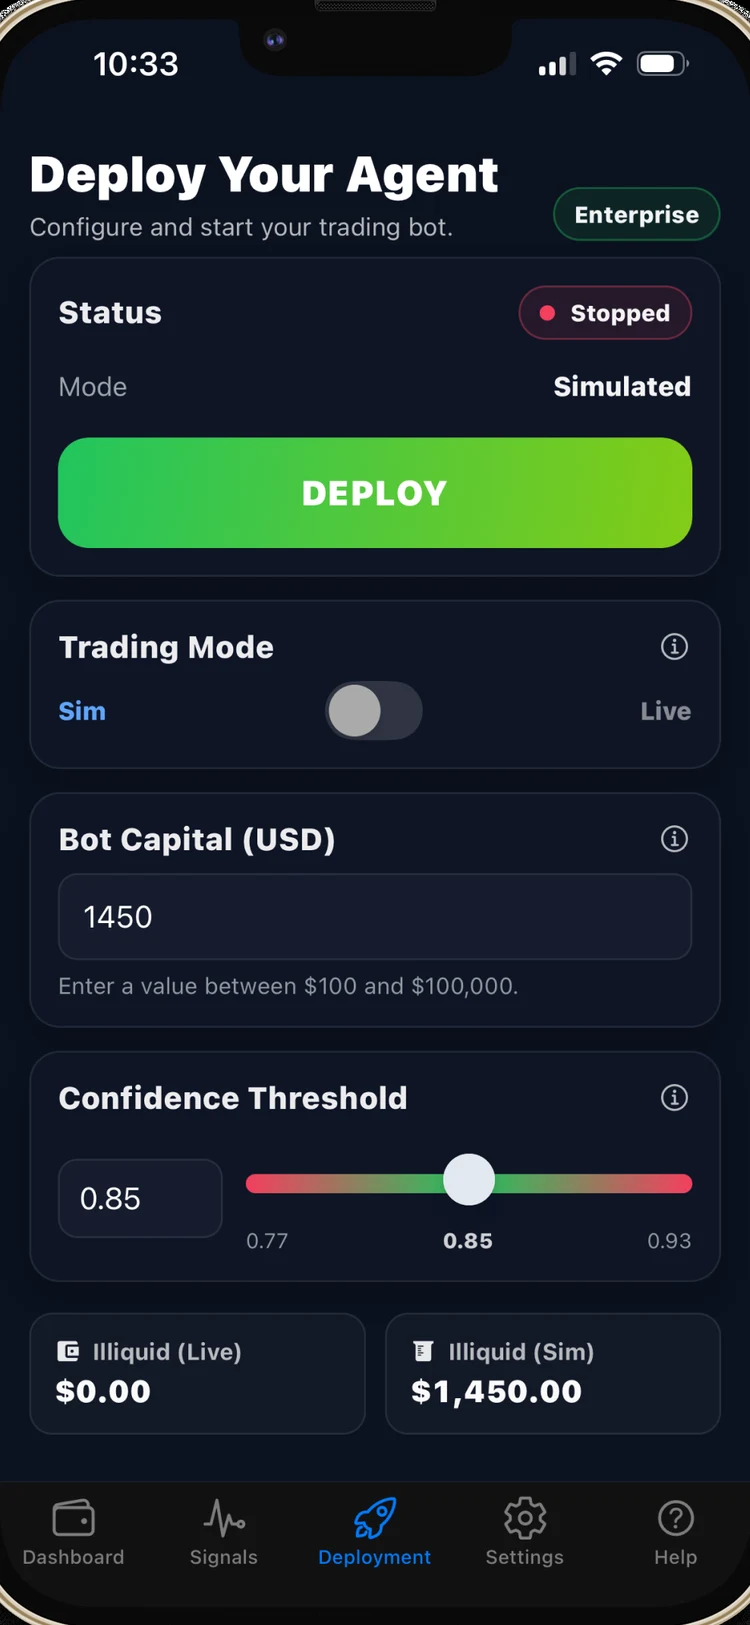
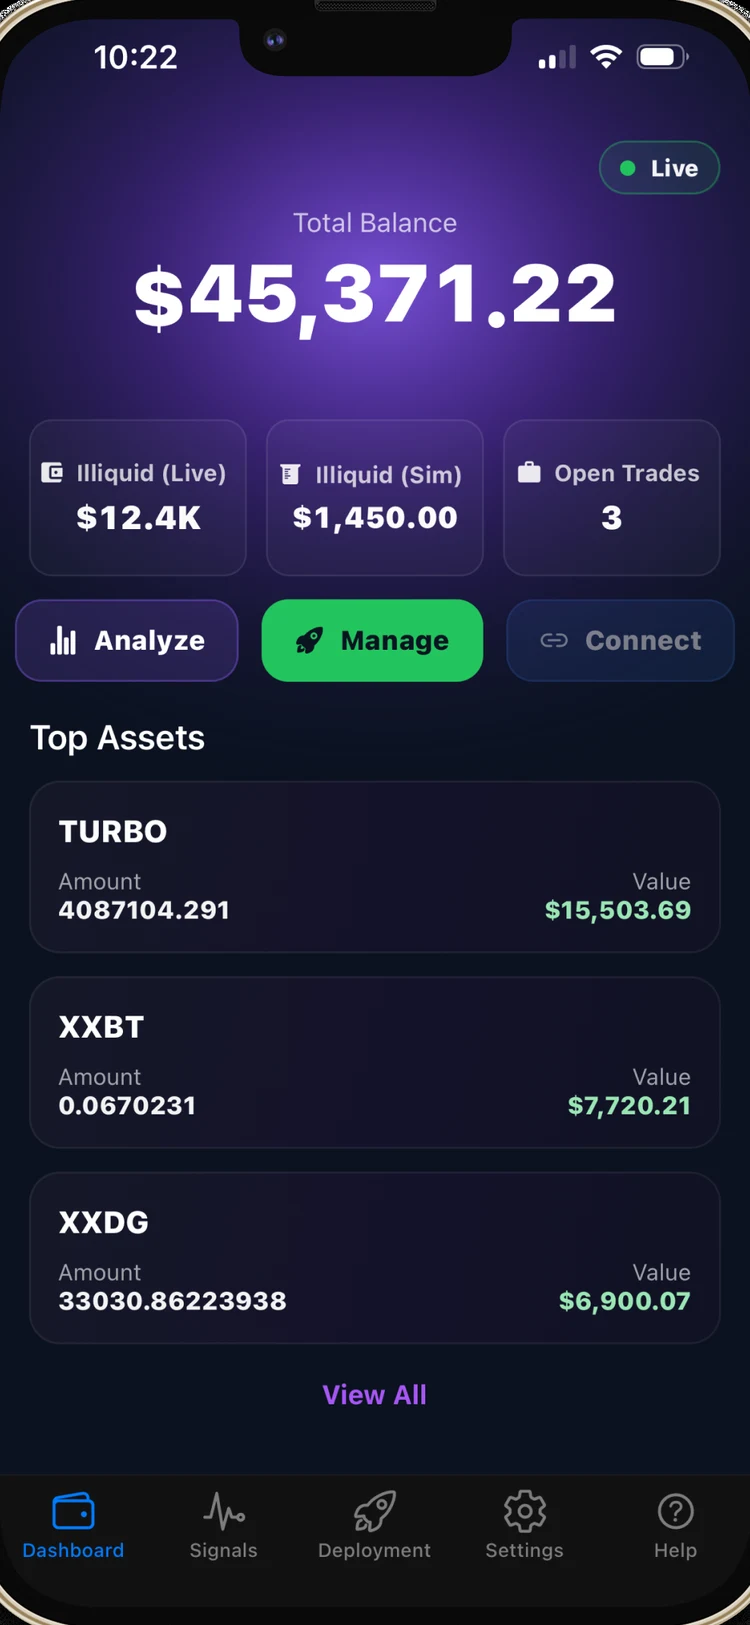
v2.5: wording round (hero, Capgemini, family) + BeNow dashboard screen
Hero drops 'an excuse to learn something I didn't know' for 'with more
on the way'. Capgemini card drops the cohort (not significant at a 400k
company): accepted the full time offer, excited to get started. Family
line is Garret's own wording. LAUNCH card keeps his hand-edit (verified
grammatically sound). BeNow screen swapped to the dashboard per his
reference, extracted from website4.png at the same 750x1625 invariant.
Voice deck and memory updated with all rejected phrasings.

diff --git a/index.html b/index.html
@@ -81,8 +81,7 @@
           <p class="lede">
             I&rsquo;m a software engineer at Capgemini in the Cloud &amp; Custom
             Applications practice. Outside of work I&rsquo;m building BerryBox,
-            my app company: four iOS apps so far, each one an excuse to learn
-            something I didn&rsquo;t know.
+            my app company: four iOS apps so far, with more on the way.
           </p>
           <div class="hero__actions">
             <a class="btn btn--primary" href="mailto:keyhanigarret@gmail.com">Email me</a>
@@ -124,9 +123,9 @@
                 <span class="chip chip--live">Current</span>
               </div>
               <p>
-                I interned in 2025, took the return offer, and started full time in
-                Chicago this year with a cohort of about forty. The work is
-                enterprise AI systems, and it&rsquo;s just getting going.
+                I interned in 2025, accepted the full time offer, and joined the
+                Chicago office this year. The work is enterprise AI systems, and
+                I&rsquo;m excited to get started.
               </p>
             </article>
           </div>
@@ -163,8 +162,7 @@
                 early-career program: my summer was the HP engagement above, plus a
                 case study with the other interns on AI-driven customer satisfaction
                 for a food delivery client. I learned what consulting actually looks
-                like from the inside, presented to real stakeholders, and left with a
-                return offer.
+                like from the inside, worked with real engineering teams, and presented to real clients.
               </p>
             </article>
           </div>
@@ -236,7 +234,7 @@
                   </p>
                 </div>
                 <div class="panel__visual">
-                  <div class="phone"><img src="assets/img/benow-ui.webp" alt="The BeNow deployment screen where you configure and start your trading bot" width="750" height="1625" loading="lazy"></div>
+                  <div class="phone"><img src="assets/img/benow-ui.webp" alt="The BeNow dashboard showing a live total balance and top assets" width="750" height="1625" loading="lazy"></div>
                 </div>
               </section>
 
@@ -401,8 +399,8 @@
           <div class="about-row__copy">
             <h3>Family first.</h3>
             <p>
-              I&rsquo;m an only child, so it&rsquo;s always been the three of us.
-              They&rsquo;re my two favorite people.
+              I&rsquo;m an only child, so it&rsquo;s just the three of us.
+              I&rsquo;m beyond grateful to have them in my life.
             </p>
           </div>
         </div>

diff --git a/docs/06-VOICE.md b/docs/06-VOICE.md
@@ -18,9 +18,10 @@ tone. If copy on the page differs from this deck, one of them is wrong.
    early ("the portfolio is young"). The mix is the voice.
 8. Casual, never cute or dramatic. Rejected on those grounds: "my little app
    company", "family is everything to me", "the reason I build anything at
-   all", "I'm the new person in the practice". When the copy is about Garret
-   inside a group, write the group in (the ~40-person cohort). Basketball is
-   real but not a headline piece of his identity; adaptability is.
+   all", "I'm the new person in the practice", "an excuse to learn something I
+   didn't know". Do not mention the intern cohort either; at a 400k-person
+   company it reads as filler. Basketball is real but not a headline piece of
+   his identity; adaptability is.
 
 ## Nav
 
@@ -33,9 +34,10 @@ contact heading; founder flagged three uses as redundant.)
 - H1: `Hi, I'm Garret.`
 - Lede: `I'm a software engineer at Capgemini in the Cloud & Custom Applications
   practice. Outside of work I'm building BerryBox, my app company: four iOS apps
-  so far, each one an excuse to learn something I didn't know.`
-  (Never "my little app company" and never "most nights and weekends". BerryBox
-  is NOT bolded. Always "practice", never "team".)
+  so far, with more on the way.`
+  (Never "my little app company", "most nights and weekends", or "an excuse to
+  learn something I didn't know". BerryBox is NOT bolded. Always "practice",
+  never "team".)
 - Fact line (small): `Chicago, IL[, 9:41 am local] · Hamilton College '26 ·
   computer science and mathematics` (the local time is a JS enhancement,
   Chicago timezone; absent without JS)
@@ -60,12 +62,14 @@ HP's location is **Spring, TX**.
 **Capgemini, full time** (label: `Software engineer · Cloud & Custom
 Applications practice · 2026 to present · Chicago, IL`)
 
-> I interned in 2025, took the return offer, and started full time in Chicago
-> this year with a cohort of about forty. The work is enterprise AI systems,
-> and it's just getting going.
+> I interned in 2025, accepted the full time offer, and joined the Chicago
+> office this year. The work is enterprise AI systems, and I'm excited to get
+> started.
 
-(Tone rule from Garret: never self-centering like "I'm the new person in the
-practice"; he is one of a ~40-person cohort and the copy should reflect that.)
+(Tone rules from Garret: never self-centering like "I'm the new person in the
+practice", and also do NOT mention the intern cohort; it is not significant at
+a 400k-person company. The message is simply: accepted the full time offer,
+excited to get started.)
 
 **HP** (own box, HP logo; label: `Consultant, through Capgemini · Summer 2025 ·
 nationwide deployment`)
@@ -86,8 +90,10 @@ Houston, TX`)
 > Where the Capgemini story started. LAUNCH is the firm's early-career program:
 > my summer was the HP engagement above, plus a case study with the other
 > interns on AI-driven customer satisfaction for a food delivery client. I
-> learned what consulting actually looks like from the inside, presented to real
-> stakeholders, and left with a return offer.
+> learned what consulting actually looks like from the inside, worked with real
+> engineering teams, and presented to real clients.
+
+(This paragraph's closing sentence is Garret's own wording; keep it.)
 
 **OperVu Surgical Technologies** (label row: `Software engineer intern ·
 Oct 2024 to Apr 2025 · Palo Alto, CA`)
@@ -117,6 +123,7 @@ Tabs: `BeNow` `Sentari` `Sero` `Whenwise` (status chip inside each panel).
 Fact line: `Thousands of downloads · Python, Cloud Run, Firebase, Azure OpenAI,
 React Native`
 Links: `App Store ↗` `benowtrader.com ↗`
+Screen: the dashboard (total balance, top assets), per Garret's reference.
 
 **Sentari** · chip `In App Review`
 (Corrected 2026-07-04: not a reskin, never "same backend". The product is the
@@ -211,8 +218,7 @@ basketball.
 
 **Row 1, family** (photo: assets/img/family.jpg, caption `Mom, Dad, and me`)
 H3: `Family first.`
-> I'm an only child, so it's always been the three of us. They're my two
-> favorite people.
+> I'm an only child, so it's just the three of us. I'm beyond grateful to have them in my life.
 
 (Tone rule: "family is everything" and "the reason I build anything at all"
 were rejected as too dramatic. Plain and warm, never sentimental.)

diff --git a/docs/02-ASSETS.md b/docs/02-ASSETS.md
@@ -10,8 +10,8 @@
 > - `benow-icon.png` now comes from the CURRENT app codebase:
 >   "NewsTrader 1.1.3/NewsTraderApp/assets/images/icon.png" (violet robot face).
 >   The newspaper-robot icon in "BeNow Materials" is outdated; never use it.
-> - `benow-ui.webp` (v2.3) is the "Deploy Your Agent" screen extracted from
->   BeNowWebsite/beacon-trader-suite/public/website3.png (gold-bezel mockup;
+> - `benow-ui.webp` (v2.5) is the dashboard screen extracted from
+>   BeNowWebsite/beacon-trader-suite/public/website4.png, the dashboard (gold-bezel mockup;
 >   screen rect ~(54,28)-(1096,2170), center-cropped to device ratio).
 >   IMG_7036.PNG (old dashboard) and the website1 signals screen are retired.
 > - `sentari-ui.webp` (v2.3) is the **Bot Lab build tab**
